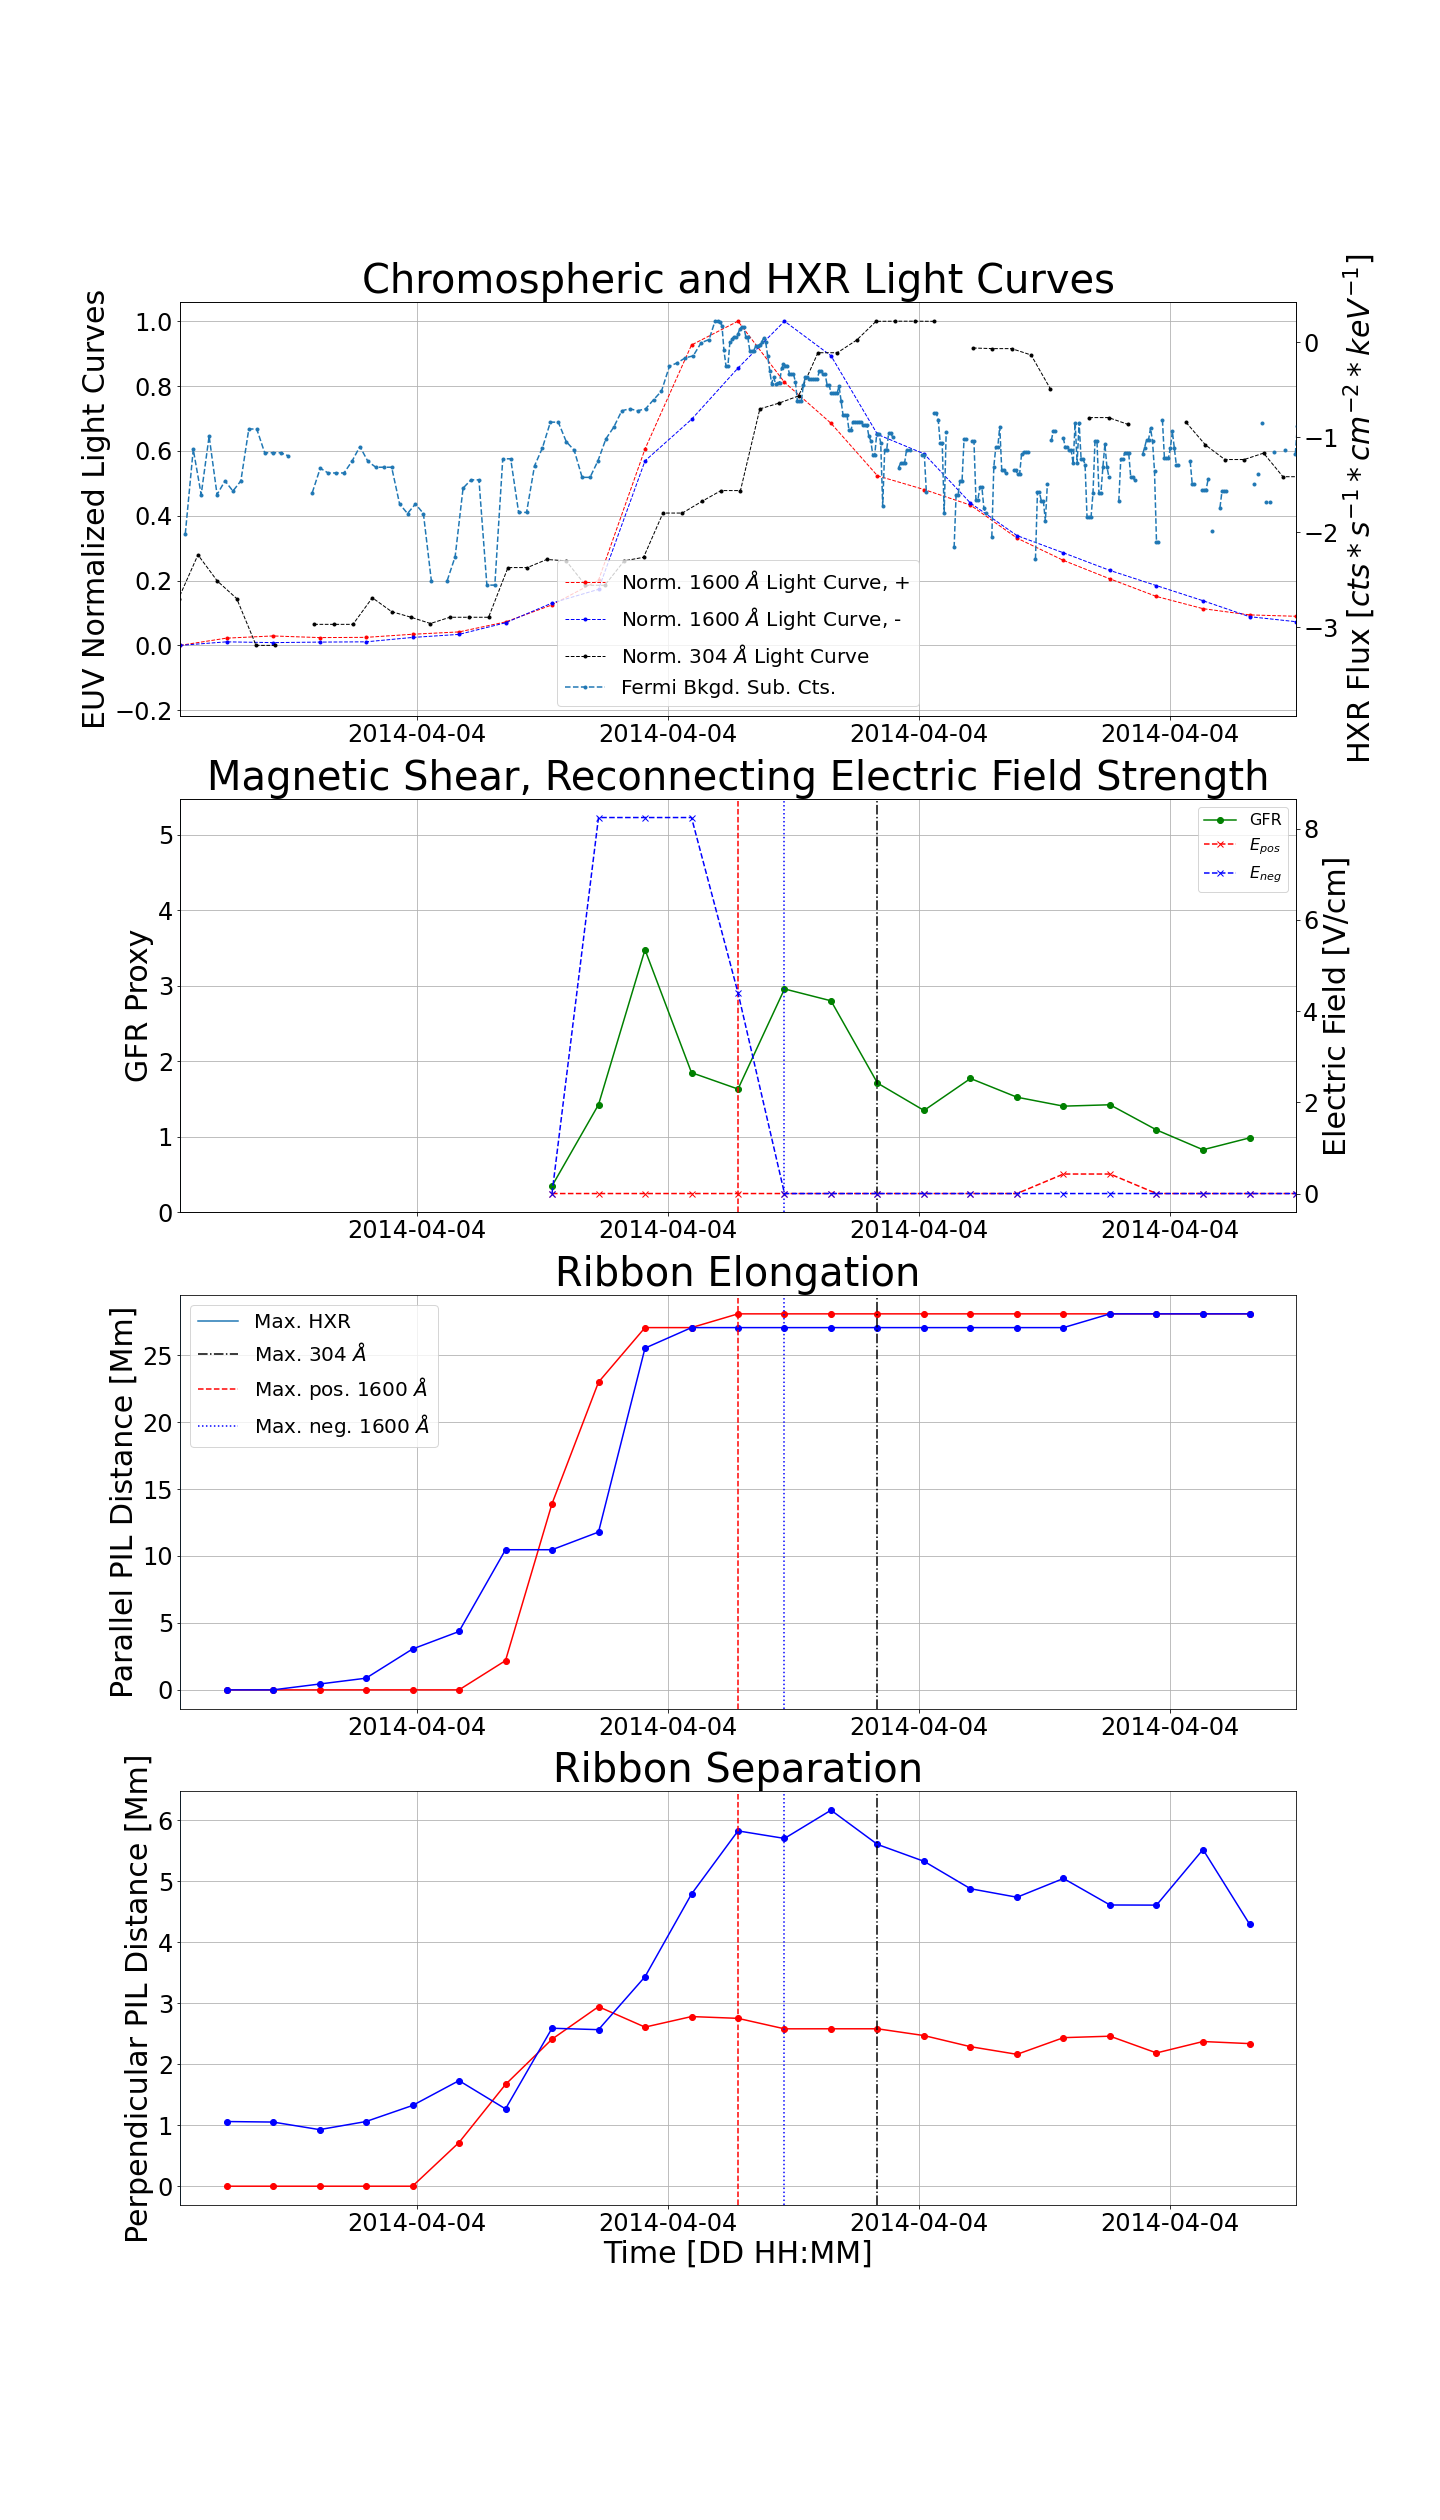
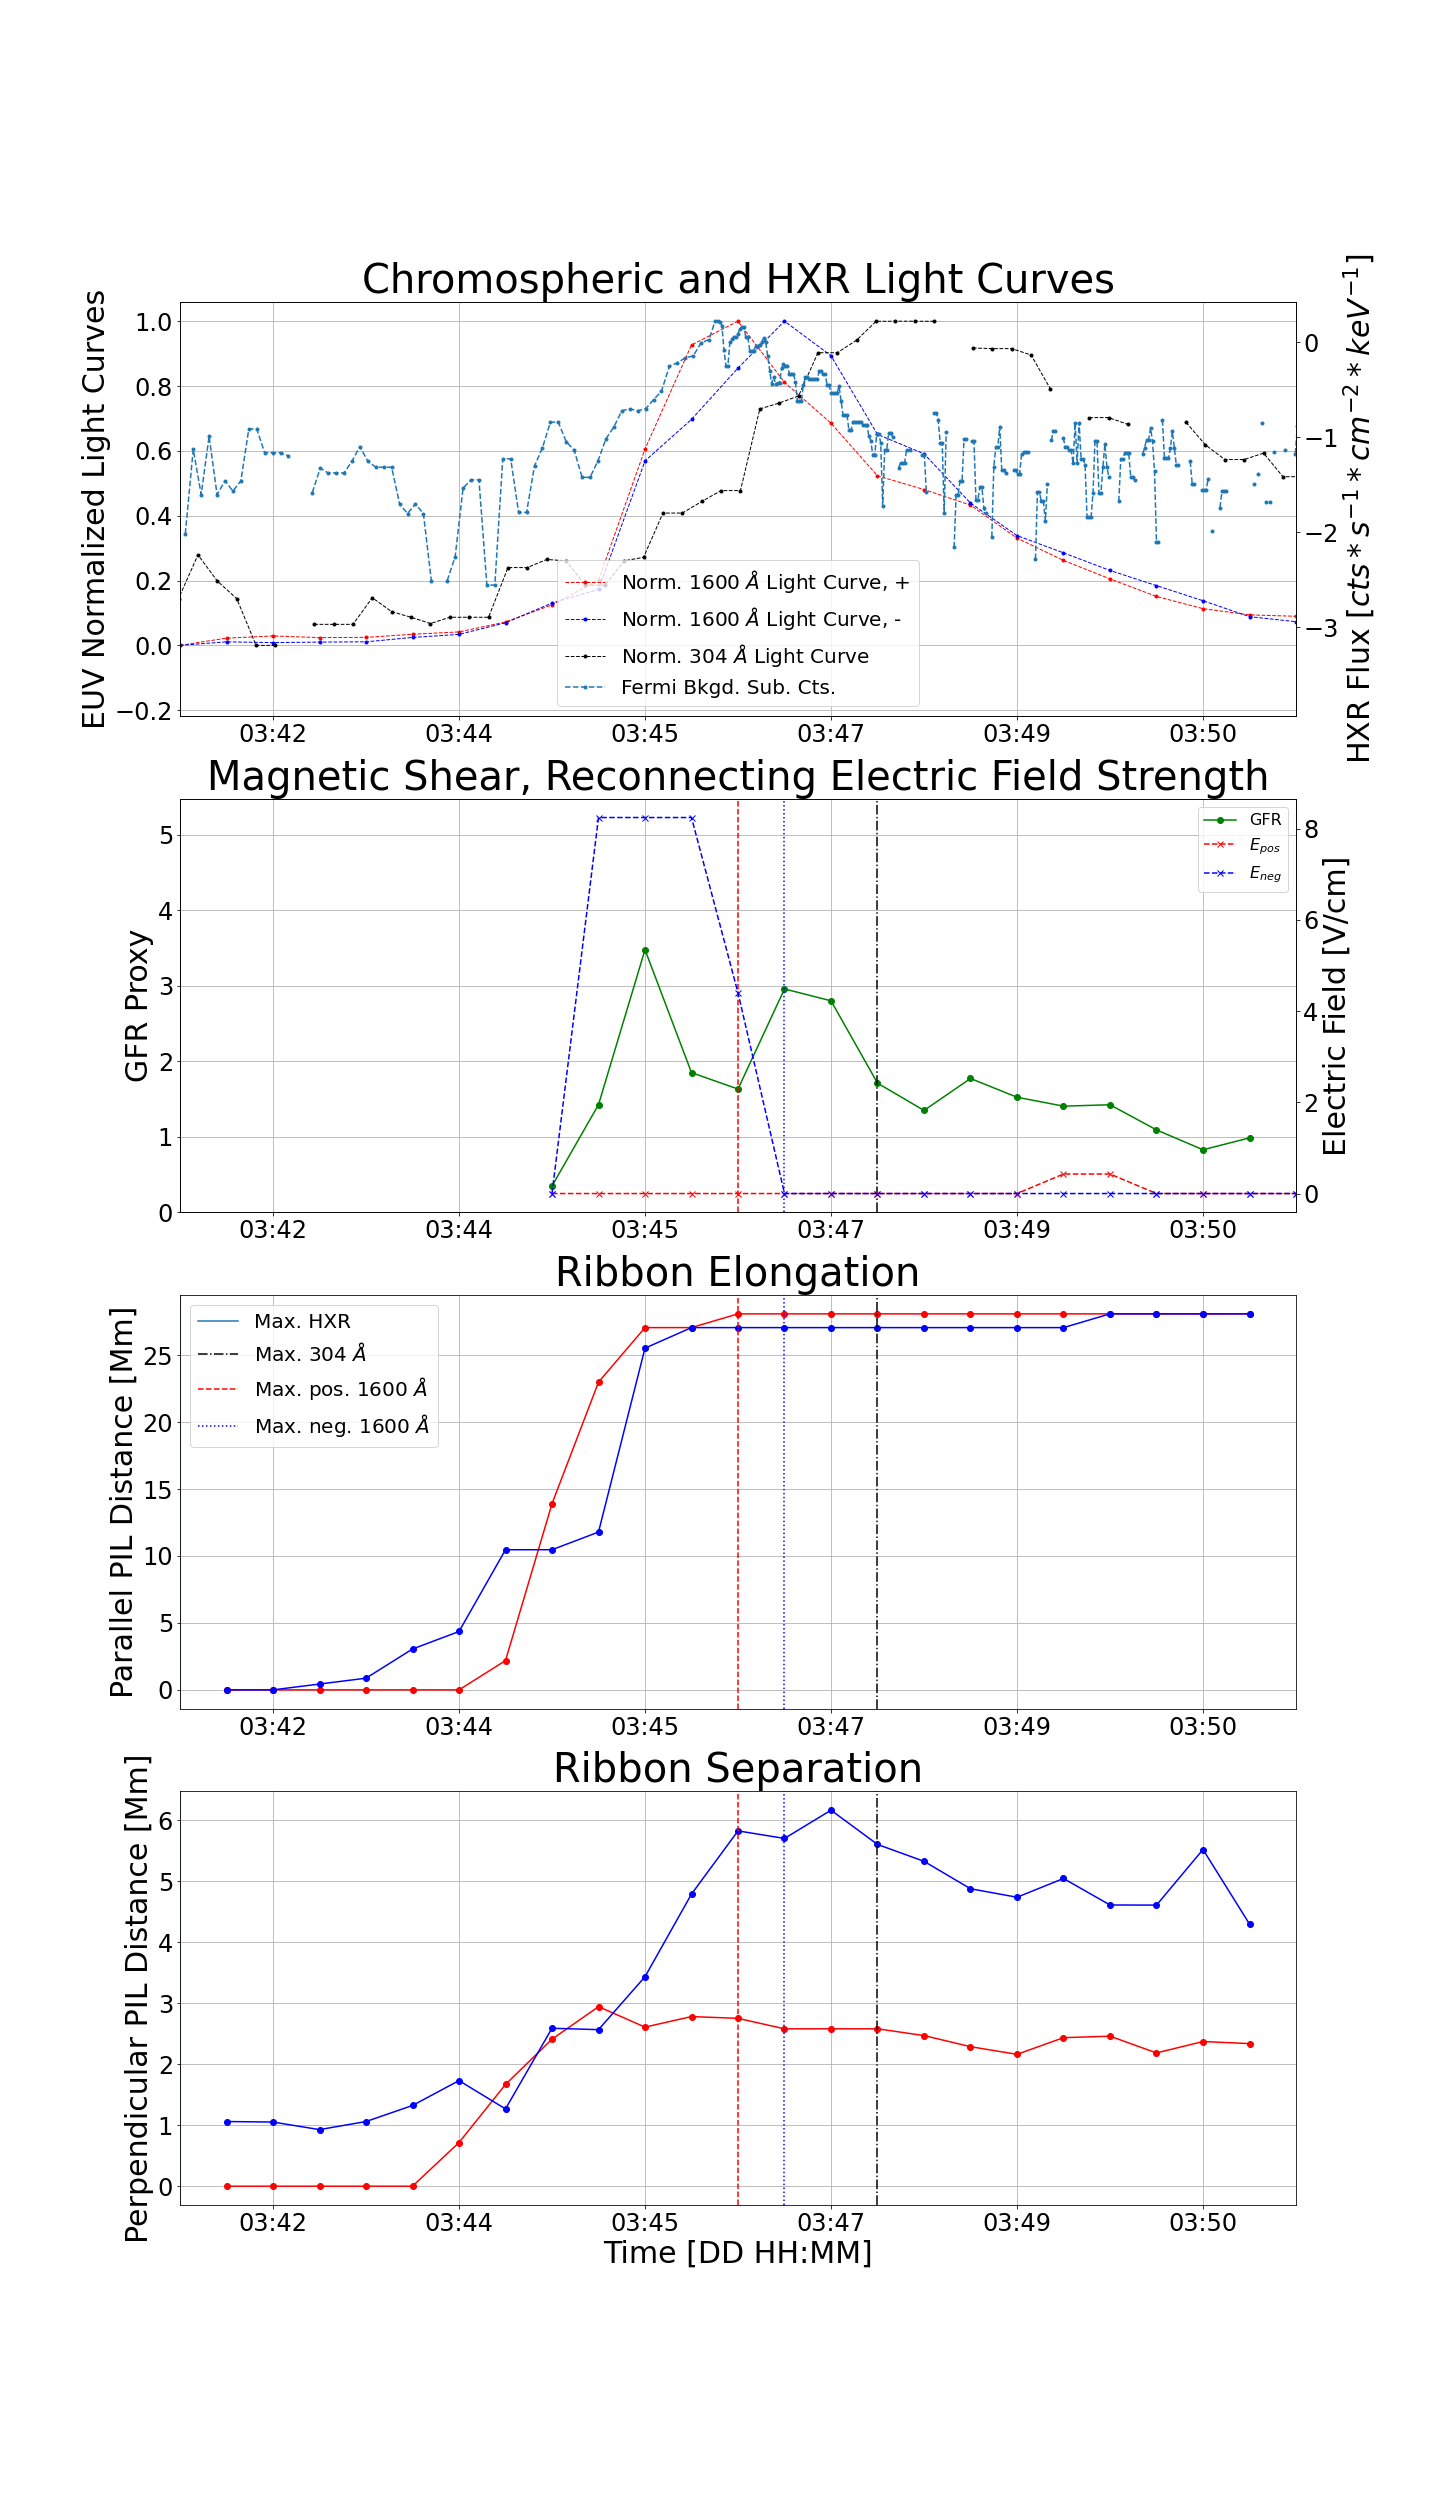
tick label edits

diff --git a/fl_funcs.py b/fl_funcs.py
@@ -4058,7 +4058,7 @@ def plt_fourpanel(times, right_gfr, left_gfr, flnum, dt1600, time304,
                   s304, e304, pos1600, neg1600, dn1600, indstrt_elon,
                   indstrt_sep, fermitimes, raw_hxr_sum, cspec_hxr_sum,
                   gfr_trans, E_pos, E_neg, time_E, low_hxr=0, high_hxr=800,
-                  period_flag=0, flag = 0):
+                  period_flag=0, flag = 0, tick_space = 0):
     """
     Four-panel plot to compare HXR/1600 Angstrom/304 Angstrom (panel 1), 
     ribbon separation (panel 2), ribbon elongation (panel 3), guide field ratio
@@ -4155,6 +4155,14 @@ def plt_fourpanel(times, right_gfr, left_gfr, flnum, dt1600, time304,
     None.
 
     """
+    
+    dt1600_1 = []
+    dt304_1 = []
+
+    for i in range(len(dt1600)):
+        dt1600_1.append(dt1600[i].strftime("%H:%M"))
+    for i in range(len(dt304)):
+        dt304_1.append(dt304[i].strftime("%H:%M"))
 
     min304 = min(filter_304[s304: e304])
     max304 = max(filter_304[s304: e304])
@@ -4177,9 +4185,9 @@ def plt_fourpanel(times, right_gfr, left_gfr, flnum, dt1600, time304,
         GFR = right_gfr
 
     hxrmax0 = np.argmax(cspec_hxr_sum[low_hxr:high_hxr])
-    print(hxrmax0)
+
     hxrmaxt = fermitimes[hxrmax0]
-    print(hxrmaxt)
+
     hxrmax = find_nearest_ind(dt1600, hxrmaxt)
 
     max304_0 = np.nanargmax(filter_304)
@@ -4318,6 +4326,22 @@ def plt_fourpanel(times, right_gfr, left_gfr, flnum, dt1600, time304,
     ax4.grid()
     ax4.set_xlabel('Time [DD HH:MM]',
                    fontsize=30)
+    
+    if tick_space == 1:
+        ax1.set_xticks(dt1600[2::4])
+        ax2.set_xticks(dt1600[2::4])
+        ax3.set_xticks(dt1600[2::4])
+        ax4.set_xticks(dt1600[2::4])
+        ax1_0.set_xticks(dt1600[2::4])
+        ax2_0.set_xticks(dt1600[2::4])
+        ax1.set_xticklabels(dt1600_1[2::4])
+        ax2.set_xticklabels(dt1600_1[2::4])
+        ax3.set_xticklabels(dt1600_1[2::4])
+        ax4.set_xticklabels(dt1600_1[2::4])
+        ax1_0.set_xticklabels(dt1600_1[2::4])
+        ax2_0.set_xticklabels(dt1600_1[2::4])
+
+
     ax1.xaxis.set_tick_params(labelsize=24)
     ax1.yaxis.set_tick_params(labelsize=24)
     ax2.xaxis.set_tick_params(labelsize=24)
@@ -4331,18 +4355,8 @@ def plt_fourpanel(times, right_gfr, left_gfr, flnum, dt1600, time304,
     ax2_0.xaxis.set_tick_params(labelsize=24)
     ax2_0.yaxis.set_tick_params(labelsize=24)
     
-    ax1.xaxis.set_major_locator(MaxNLocator(5)) 
-    ax1.xaxis.set_major_locator(MaxNLocator(5)) 
-    ax2.xaxis.set_major_locator(MaxNLocator(5)) 
-    ax2.xaxis.set_major_locator(MaxNLocator(5)) 
-    ax3.xaxis.set_major_locator(MaxNLocator(5)) 
-    ax3.xaxis.set_major_locator(MaxNLocator(5)) 
-    ax4.xaxis.set_major_locator(MaxNLocator(5)) 
-    ax4.xaxis.set_major_locator(MaxNLocator(5)) 
-    ax1_0.xaxis.set_major_locator(MaxNLocator(5)) 
-    ax1_0.xaxis.set_major_locator(MaxNLocator(5)) 
-    ax2_0.xaxis.set_major_locator(MaxNLocator(5)) 
-    ax2_0.xaxis.set_major_locator(MaxNLocator(5)) 
+
+        
     
     if period_flag == 1:
         for i, j in zip(elonperiod_start_pos, elonperiod_end_pos):

diff --git a/high1_process.py b/high1_process.py
@@ -319,7 +319,7 @@ fl_funcs.plt_fourpanel(times, gfr, gfr, flnum, dt1600, time304,
                   s304, e304, pos1600, neg1600, dn1600, indstrt_elon, 
                   indstrt_sep, fermitimes, raw_hxr_sum, cspec_hxr_sum,
                   gfr_trans, E_pos, E_neg, time_E, 
-                  low_hxr=3500, high_hxr=4500,  period_flag = 0)
+                  low_hxr=3500, high_hxr=4500,  period_flag = 0, tick_space = 0)
 
 file='high1shear'
 
